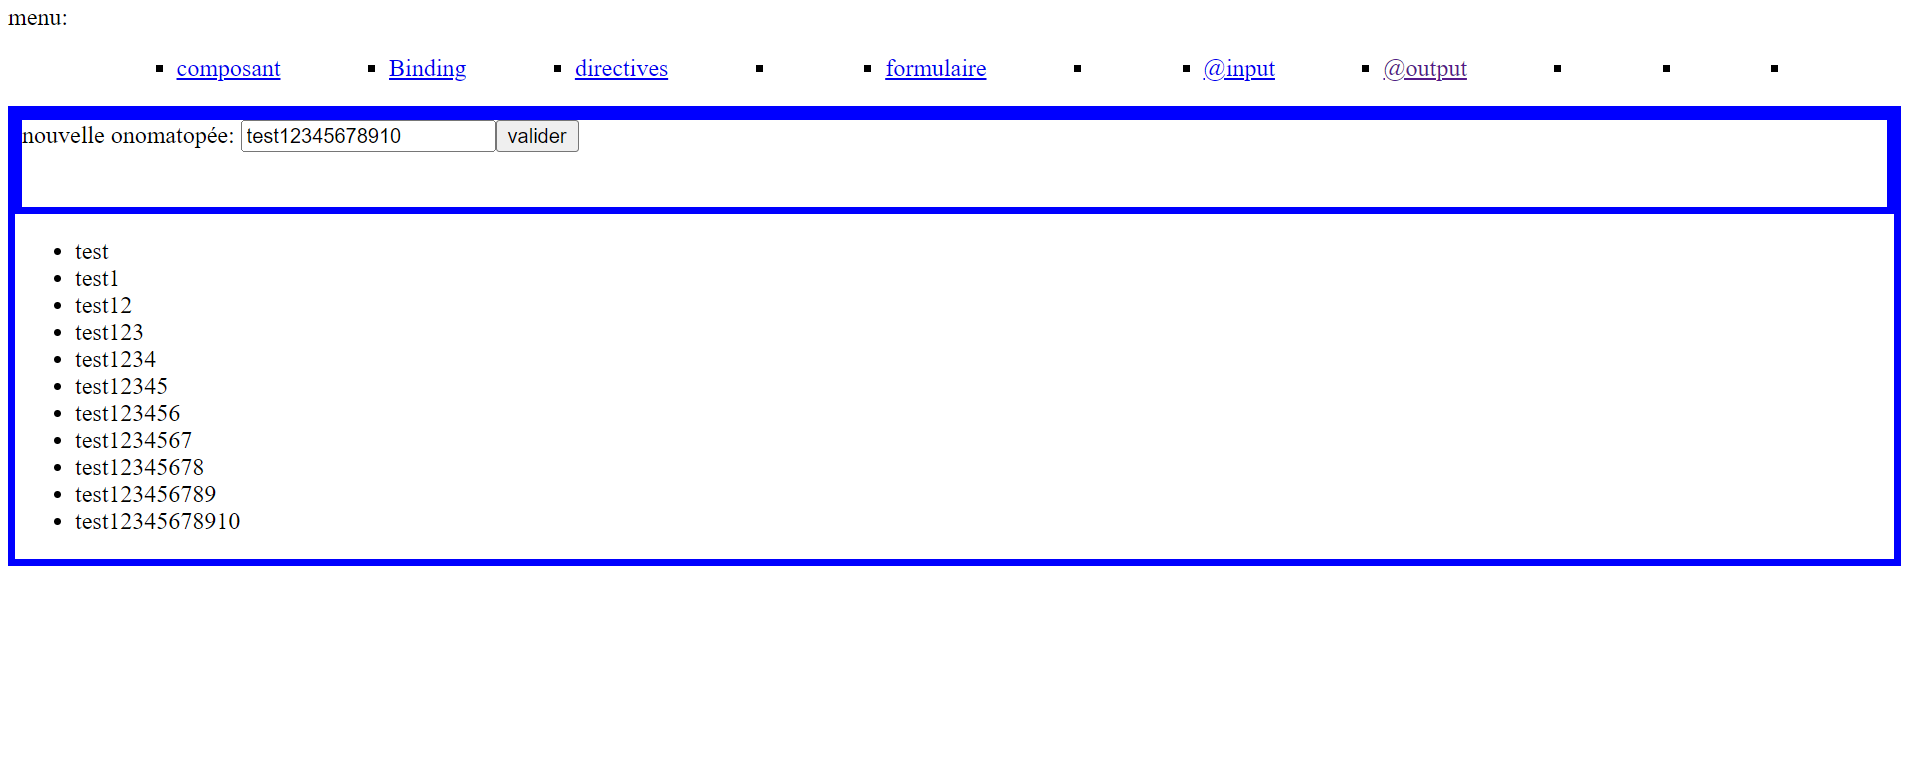
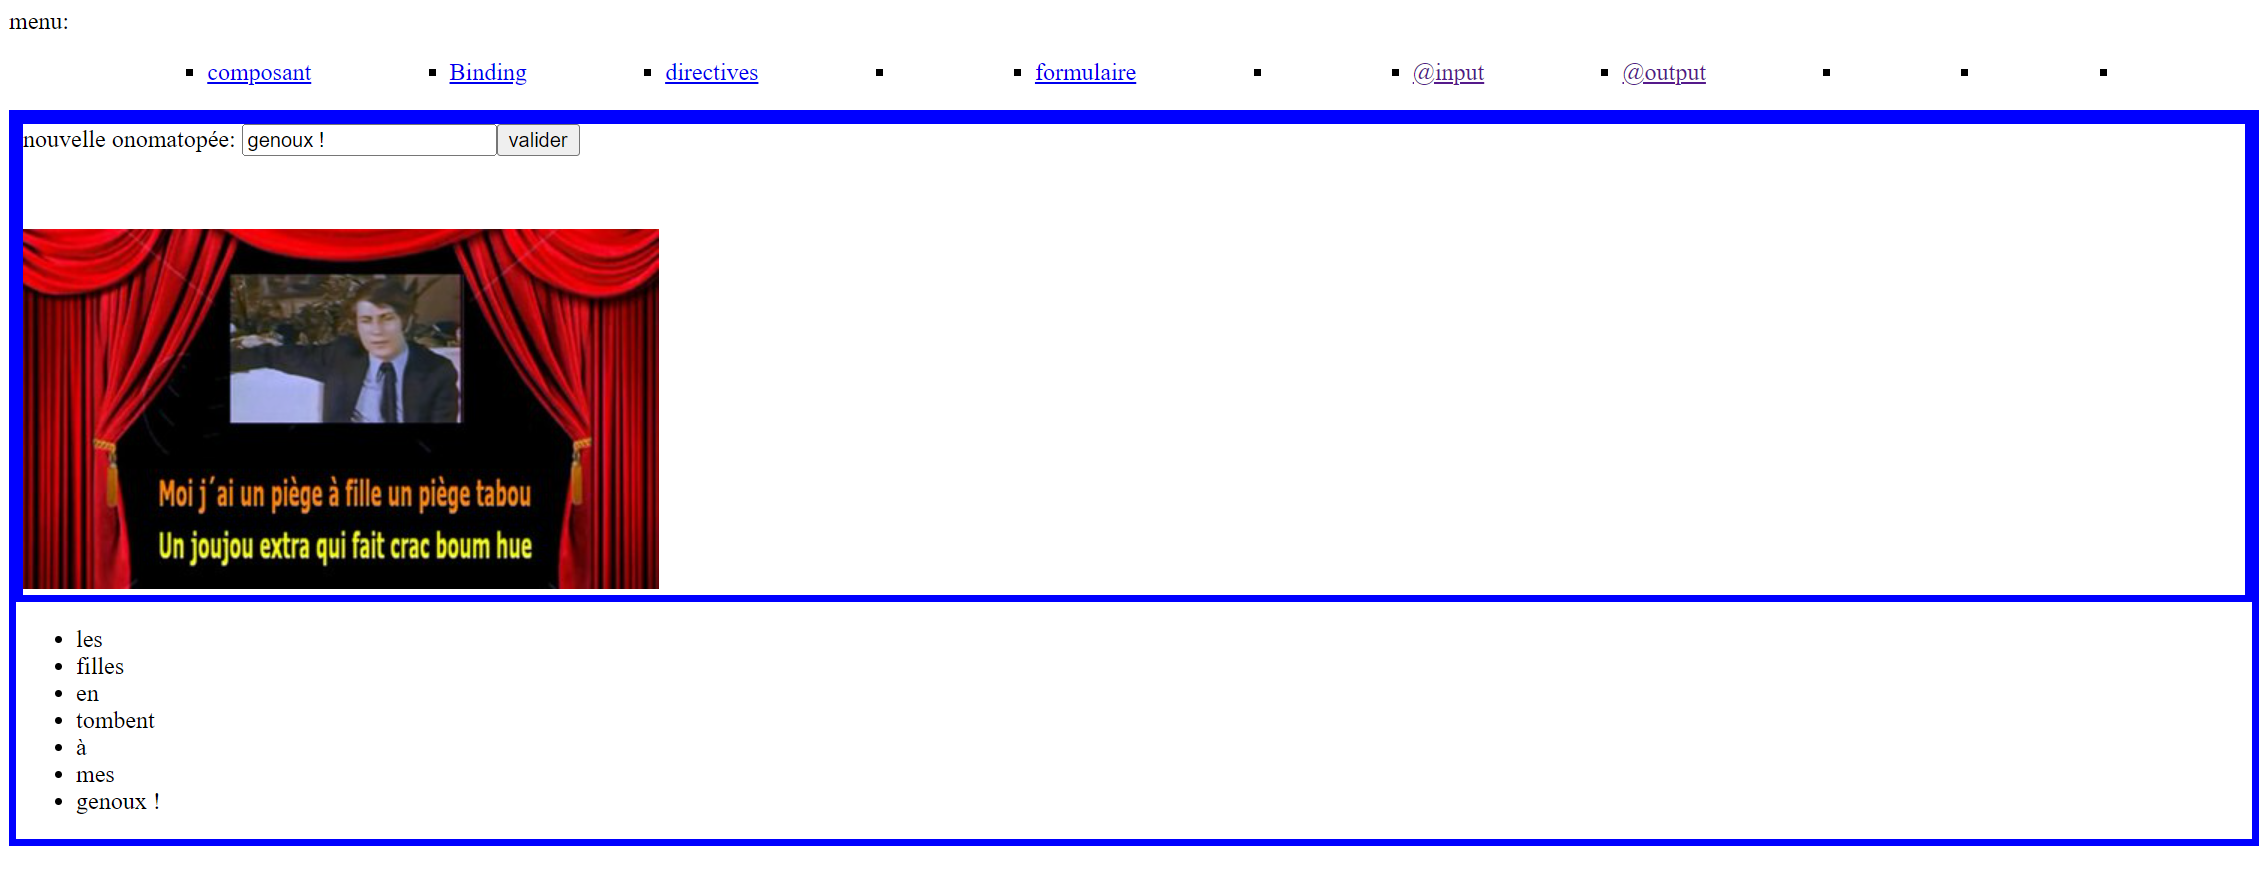
readme update

Changed region(s): [[0.0, 0.0625, 1.0, 0.9688], [0.0, 0.0, 0.0309, 0.0312]]

diff --git a/src/app/ang-huit-create-onomatopia/ang-huit-create-onomatopia.component.html b/src/app/ang-huit-create-onomatopia/ang-huit-create-onomatopia.component.html
@@ -5,4 +5,5 @@
 
         <button type="submit">valider</button>
     </form>
+    <img src="https://s2.dmcdn.net/v/CM9X_1ML73GOYYoKk/x240" alt="">
 </div>

diff --git a/src/app/ang-huit-create-onomatopia/ang-huit-create-onomatopia.component.css b/src/app/ang-huit-create-onomatopia/ang-huit-create-onomatopia.component.css
@@ -1,3 +1,6 @@
 form {
     min-height: 10vh;
+
 }
+
+img {}
